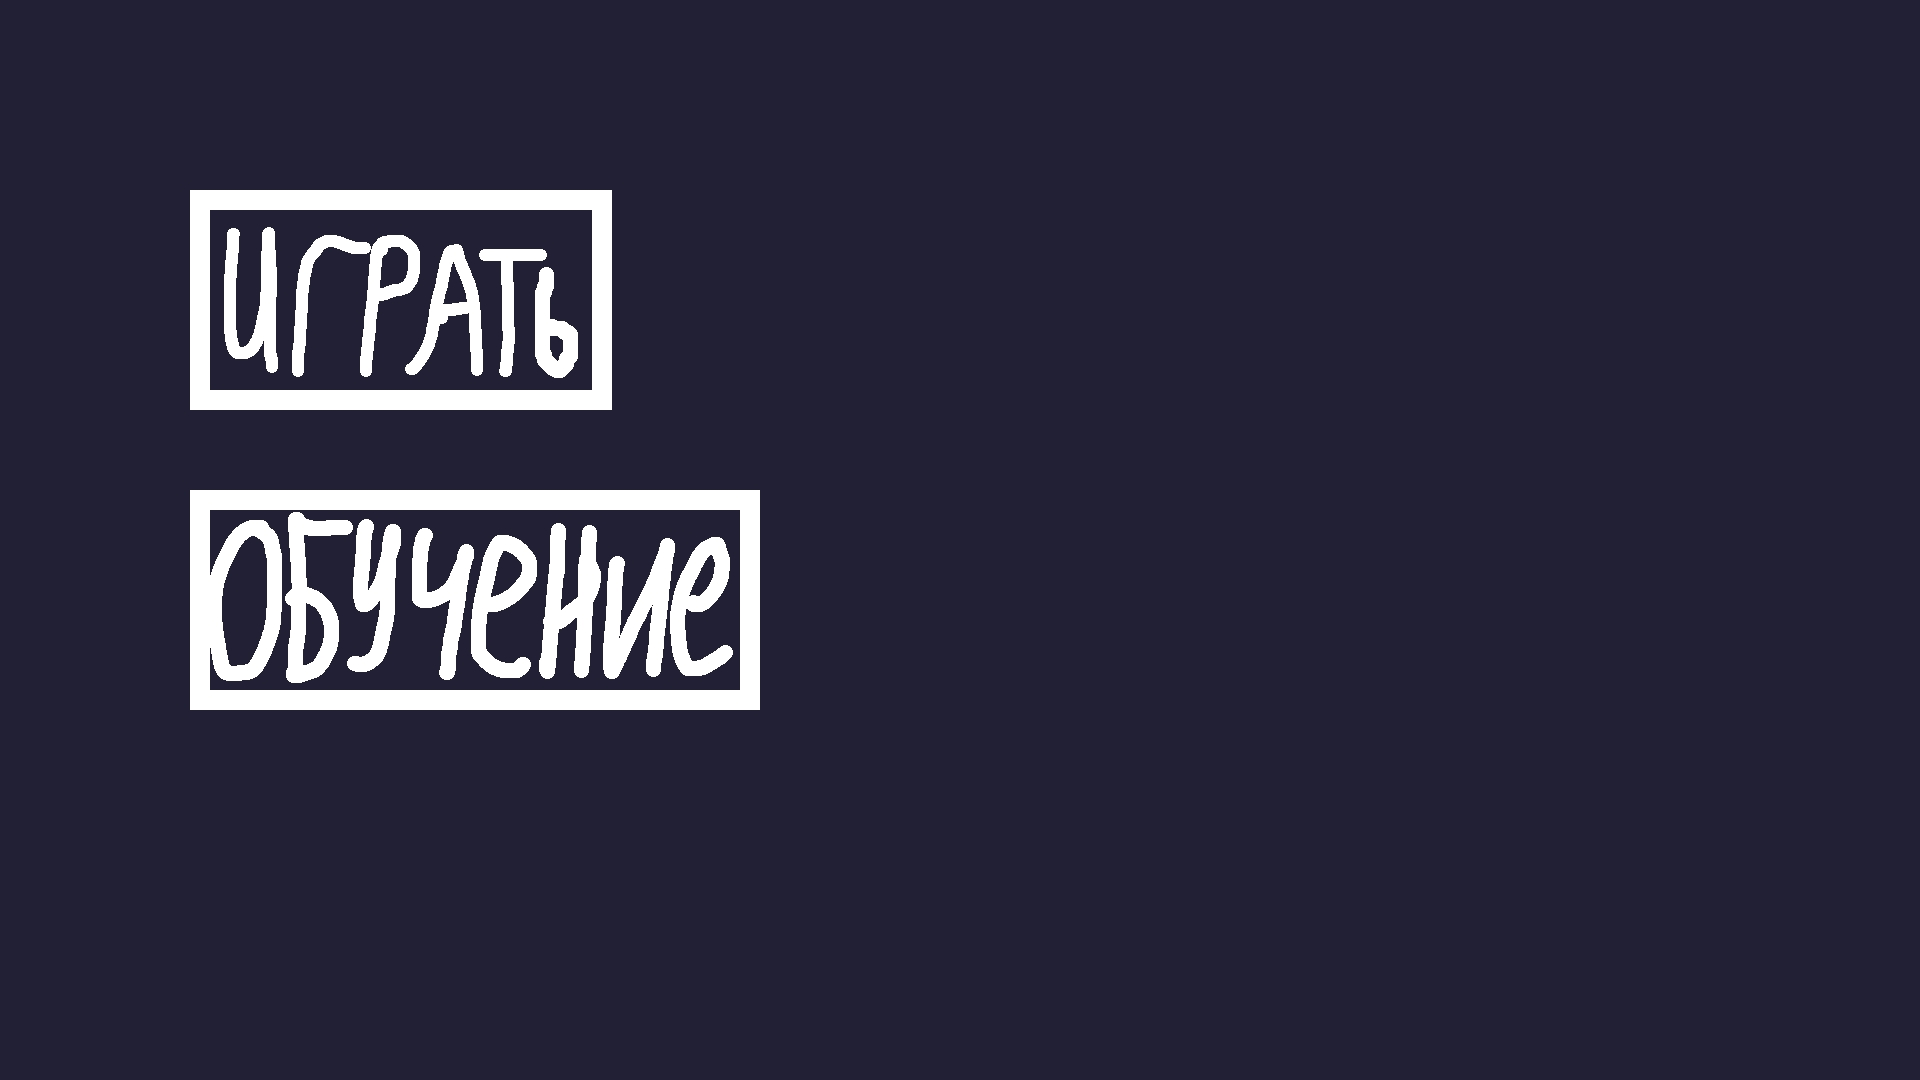
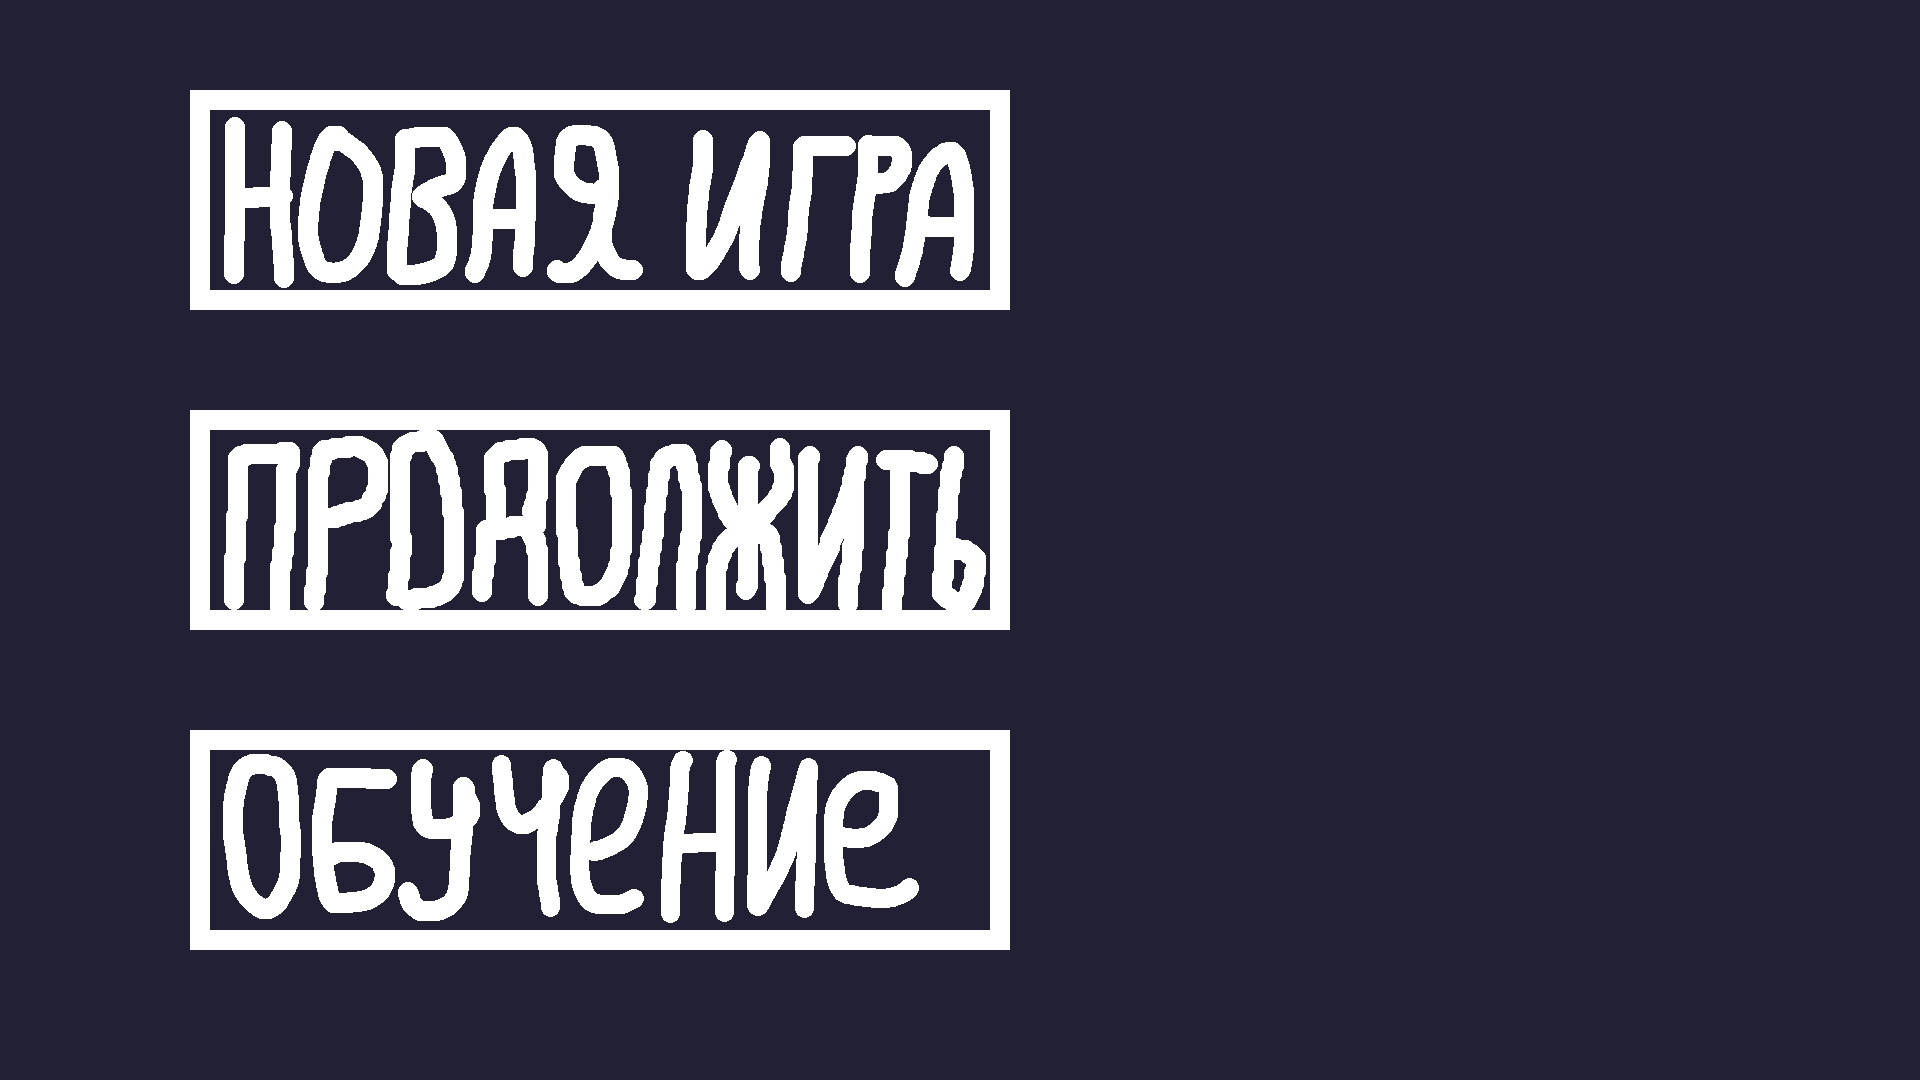
fix

Changed region(s): [[0.0938, 0.0611, 0.5312, 0.8861]]

diff --git a/main.py b/main.py
@@ -39,7 +39,7 @@ FPS = 60
 
 
 class Upgrade(pygame.sprite.Sprite):
-    def __init__(self, group, x, y, player_lvl, image, dial, upg):
+    def __init__(self, group, x, y, image, dial, upg):
         super().__init__(group)
         self.image = load_image(image)
         self.dialogue = dial
@@ -504,8 +504,6 @@ def guide():
     render_examples = False
     render_timer = False
     final_exam = False
-
-    is_guide_over = False
     render_death = False
     is_dead = False
 
@@ -655,6 +653,9 @@ def guide():
         if update_example:
             for block in generate_random_algebraic_conversions(2, 1, 1, 9 * TILE_SIZE, 3 * TILE_SIZE, 'horizontal'):
                 blocks.add(block)
+            if __name__ == '__main__':
+                if __name__ == '__main__':
+                    timer.timer = timer.max_seconds
 
         if render_timer:
             render_dialog(['По истечении таймера вы проигрываете!',
@@ -706,7 +707,6 @@ def guide():
             render_timer = False
             final_exam = False
 
-            is_guide_over = False
             is_dead = False
             for s in all_sprites:
                 all_sprites.remove(s)
@@ -741,10 +741,13 @@ def start_screen():
                 m_x = pos[0]
                 m_y = pos[1]
 
-                if event.button == 1 and 190 < m_x < 611 and 190 < m_y < 409:
+                if event.button == 1 and 200 < m_x < 1000 and 90 < m_y < 310:
                     return True
 
-                if event.button == 1 and 190 < m_x < 760 and 490 < m_y < 709:
+                if event.button == 1 and 200 < m_x < 1000 and 410 < m_y < 630:
+                    return guide()
+
+                if event.button == 1 and 200 < m_x < 1000 and 730 < m_y < 950:
                     return guide()
             if event.type == pygame.KEYDOWN:
                 if event.key == pygame.K_ESCAPE:
@@ -785,7 +788,8 @@ def show_level(map_name, player_cords, pos_blocks, levels_to_update, upgrade_pos
     def render_dialog(upg):
         dialog = FONT_25.render(upg.dialogue, True, (255, 255, 255))
         screen.blit(dialog, (100, 100))
-
+    score = None
+    score_to_win = 2000
     updated_lvl_index = 0
     running = True
 
@@ -822,13 +826,13 @@ def show_level(map_name, player_cords, pos_blocks, levels_to_update, upgrade_pos
         player.level = 4
     if upgrade_pos and upgrade_pos[1] == 1:
         upgrade = Upgrade(upgrade_group, upgrade_pos[0][0] * TILE_SIZE + 20, upgrade_pos[0][1] * TILE_SIZE + 20,
-                          PLAYER_LVL, 'upgrade_dash.png', 'Нажмите клавишу SHIFT для рывка', 1)
+                          'upgrade_dash.png', 'Нажмите клавишу SHIFT для рывка', 1)
     elif upgrade_pos and upgrade_pos[1] == 2:
         upgrade = Upgrade(upgrade_group, upgrade_pos[0][0] * TILE_SIZE + 20, upgrade_pos[0][1] * TILE_SIZE + 20,
-                          PLAYER_LVL, 'upgrade_doublejump.png', 'Теперь вам доступен двойной прыжок', 2)
+                          'upgrade_doublejump.png', 'Теперь вам доступен двойной прыжок', 2)
     elif upgrade_pos and upgrade_pos[1] == 3:
         upgrade = Upgrade(upgrade_group, upgrade_pos[0][0] * TILE_SIZE + 20, upgrade_pos[0][1] * TILE_SIZE + 20,
-                          PLAYER_LVL, 'key.png', 'Ключ от пещеры огня', 3)
+                          'key.png', 'Ключ от пещеры огня', 3)
 
     while running:
         screen.fill('gray')
@@ -837,7 +841,11 @@ def show_level(map_name, player_cords, pos_blocks, levels_to_update, upgrade_pos
                 terminate()
             if event.type == pygame.KEYDOWN:
                 if event.key == pygame.K_ESCAPE:
+                    if score:
+                        if score >= score_to_win:
+                            return True
                     return False
+
                 if event.key == pygame.K_n:
                     return True
 
@@ -848,11 +856,20 @@ def show_level(map_name, player_cords, pos_blocks, levels_to_update, upgrade_pos
 
         status = player.update_movement([blocks, platforms])
         if not status:
+            if score:
+                if score >= score_to_win:
+                    return True
             return False
 
         if player.rect.right >= WIDTH or player.rect.left <= 0 \
                 or player.rect.bottom >= HEIGHT or player.rect.bottom <= 0:
-            return True
+            if not score:
+                return True
+            else:
+                if score:
+                    if score >= score_to_win:
+                        return True
+                return False
 
         # Обновление выстрелов
         for fire in fires:
@@ -861,6 +878,9 @@ def show_level(map_name, player_cords, pos_blocks, levels_to_update, upgrade_pos
         hits = pygame.sprite.groupcollide(blocks, fires, True, True)
         for key in hits.keys():
             if key.is_correct:
+                if score:
+                    if score >= score_to_win:
+                        return True
                 return False
 
         blocks_need_delete = []
@@ -916,6 +936,8 @@ def show_level(map_name, player_cords, pos_blocks, levels_to_update, upgrade_pos
         counter_fps += 1
         if blocks:
             if not timer.update():
+                if score >= score_to_win:
+                    return True
                 return False
         pygame.draw.rect(screen, 'red', player.rect, 5)
         if updated_lvl_index == 2 and player.level == 0:
@@ -972,7 +994,7 @@ def main_page(statuses):
             dialog = FONT_25.render(placeholder, True, 'white')
         else:
             dialog = FONT_25.render(near_npc_.dialogue, True, near_npc_.color)
-        screen.blit(dialog, (near_npc_.x - 60, near_npc_.y - 150))
+        screen.blit(dialog, (near_npc_.x - 90, near_npc_.y - 150))
 
     doors = [
         Door(5 * 80, 10 * 80, "Earth", "Пещера земли", statuses["Earth"]),
@@ -1056,7 +1078,8 @@ LEVELS = {
               False, False],
     'Cloud': [{'cloud_map1.tmx': [[[6, 11]], False, [[2, 1, 1, 2, 0, 'horizontal']], []],
                'cloud_map2.tmx': [[[4, 11]], False, [[2, 1, 1, 9, 0, 'vertical']], ['cloud_map2.1.tmx'], [[21, 2], 3]],
-               'cloud_map3.tmx': [[[17, 0]], False, [[2, 1, 1, 23, 0, 'vertical']], ['cloud_map3.1.tmx']]}, False, False],
+               'cloud_map3.tmx': [[[17, 0]], False, [[2, 1, 1, 23, 0, 'vertical']], ['cloud_map3.1.tmx']]}, False,
+              False],
     'Fire': [{'endless_map.tmx': [[[11, 11]], False, [[2, 1, 1, 8, 0, 'horizontal'],
                                                       [2, 1, 1, 7, 1, 'vertical'],
                                                       [2, 1, 1, 16, 1, 'vertical'],
@@ -1124,10 +1147,8 @@ def main():
     game_not_over = True
     while game_not_over:
 
-
         running = start_screen()
         show_story()
-
 
         while running:
             statuses = {}
